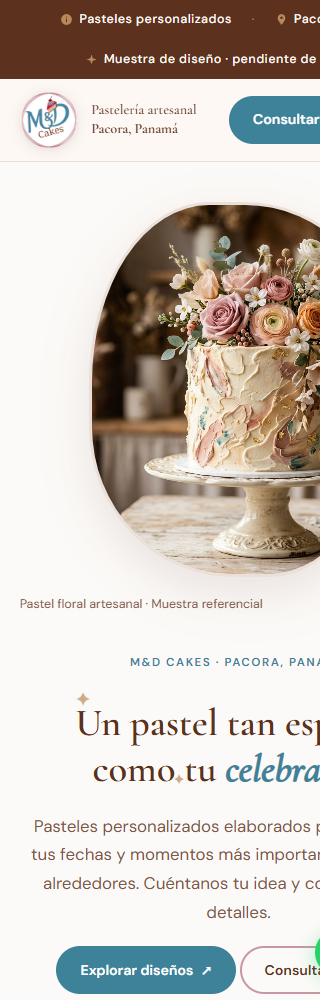
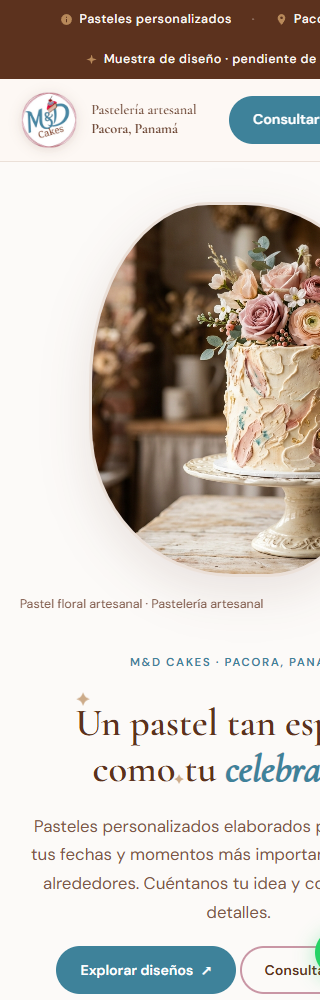
fix: eliminar textos de reemplazo provisional y limpiar visualización de fotografías

Changed region(s): [[0.2812, 0.186, 1.0, 0.62]]

diff --git a/dist/app.js b/dist/app.js
@@ -82,9 +82,6 @@ function cardSVG(id) {
       <rect x="84" y="66"  width="32" height="18" rx="4" fill="${c.secondary}" opacity="0.6"/>
       <!-- Topping -->
       <circle cx="100" cy="62" r="6" fill="${c.accent}" opacity="0.6"/>
-      <!-- Etiqueta referencial -->
-      <text x="100" y="134" text-anchor="middle" font-family="Arial,sans-serif" font-size="7.5"
-            fill="#8a6858" opacity="0.9">Imagen referencial · M&amp;D Cakes</text>
     </svg>`;
 }
 
@@ -131,11 +128,6 @@ function heroSVG(id) {
       ${c.petals}
       <!-- Plate -->
       <ellipse cx="100" cy="210" rx="60" ry="6" fill="${c.accent}" opacity="0.2"/>
-      <!-- Labels -->
-      <text x="100" y="232" text-anchor="middle" font-family="Arial,sans-serif"
-            font-size="8" fill="#8a6858">Fotografía referencial</text>
-      <text x="100" y="245" text-anchor="middle" font-family="Arial,sans-serif"
-            font-size="7" fill="#b8895a">Sustituir por foto de M&amp;D Cakes</text>
     </svg>`;
 }
 
@@ -209,9 +201,8 @@ function renderProducts() {
     card.setAttribute('aria-label', `Ver detalles de ${p.name}`);
     card.innerHTML = `
       <div class="card-thumb" aria-label="${p.alt}">
-        <img src="${p.image}" alt="${p.alt}" loading="lazy" onerror="this.onerror=null;this.parentElement.innerHTML='${cardSVG(p.id)}'">
+        <img src="${p.image}" alt="${p.alt}" loading="lazy">
         <span class="card-badge">${p.category}</span>
-        <span class="ref-badge" title="Muestra referencial · Sustituir por foto de M&D Cakes">Referencia</span>
       </div>
       <div class="card-body">
         <h3>${p.name}</h3>
@@ -252,13 +243,13 @@ function openModal(id) {
 
   detailEl.innerHTML = `
     <div class="modal-thumb">
-      <img src="${p.image}" alt="${p.alt}" onerror="this.onerror=null;this.parentElement.innerHTML='${cardSVG(p.id)}'">
+      <img src="${p.image}" alt="${p.alt}">
     </div>
     <div class="modal-info">
       <p class="eyebrow">${p.category}</p>
       <h2 id="dialog-title">${p.name}</h2>
       <p>${p.description}</p>
-      <p class="modal-ref-note">Fotografía de muestra referencial. M&D Cakes adaptará colores, pisos, dedicatoria y sabores a tu celebración.</p>
+      <p class="modal-ref-note">M&D Cakes adapta cada detalle: colores, temática, dedicatoria y porciones para tu celebración.</p>
     </div>
     <div class="modal-form">
       <label>
@@ -327,12 +318,10 @@ const HERO_COUNT = 3;
 function updateHero() {
   if (!heroPh) return;
   const current = products[heroIndex] || products[0];
-  heroPh.innerHTML = `
-    <img class="hero-photo" src="${current.image}" alt="${current.alt}"
-         onerror="this.onerror=null;this.parentElement.innerHTML='${heroSVG(heroIndex)}'">`;
+  heroPh.innerHTML = `<img class="hero-photo" src="${current.image}" alt="${current.alt}">`;
   if (slideCount) slideCount.textContent = `0${heroIndex + 1} / 0${HERO_COUNT}`;
   const figText = document.querySelector('figcaption > span');
-  if (figText) figText.textContent = `${current.name} · Muestra referencial`;
+  if (figText) figText.textContent = `${current.name} · Pastelería artesanal`;
 }
 
 prevBtn?.addEventListener('click', () => {

diff --git a/dist/index.html b/dist/index.html
@@ -97,7 +97,7 @@
           </div>
         </div>
         <figcaption>
-          <span>Composición referencial · Sustituir por fotografías autorizadas</span>
+          <span>Pastelería artesanal · Diseños personalizados</span>
           <div class="slide-controls">
             <button id="prev" aria-label="Diseño anterior">←</button>
             <span id="slide-count" aria-live="polite">01 / 03</span>
